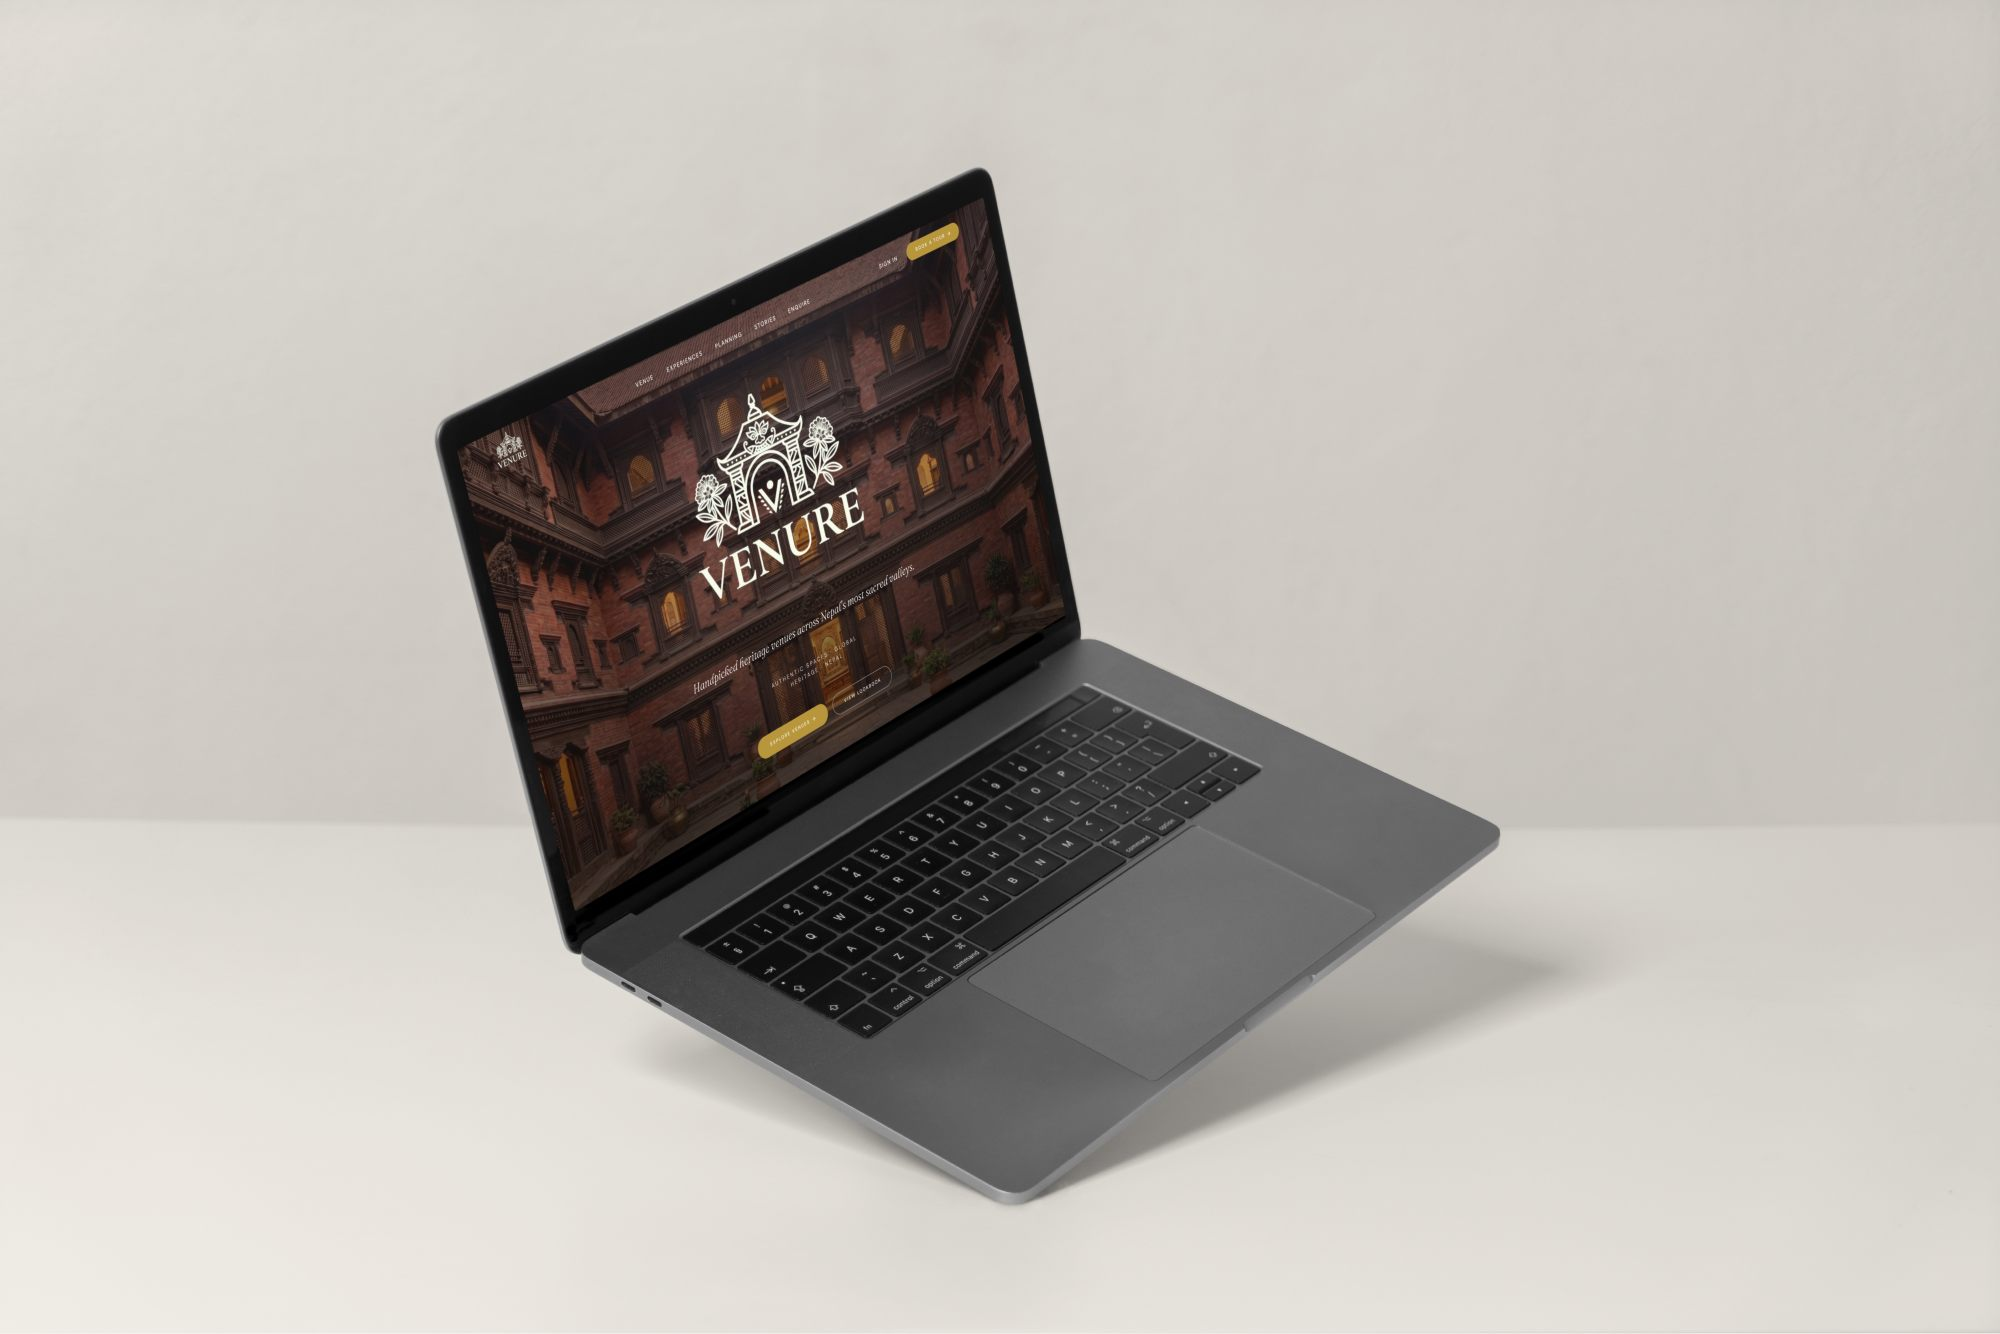
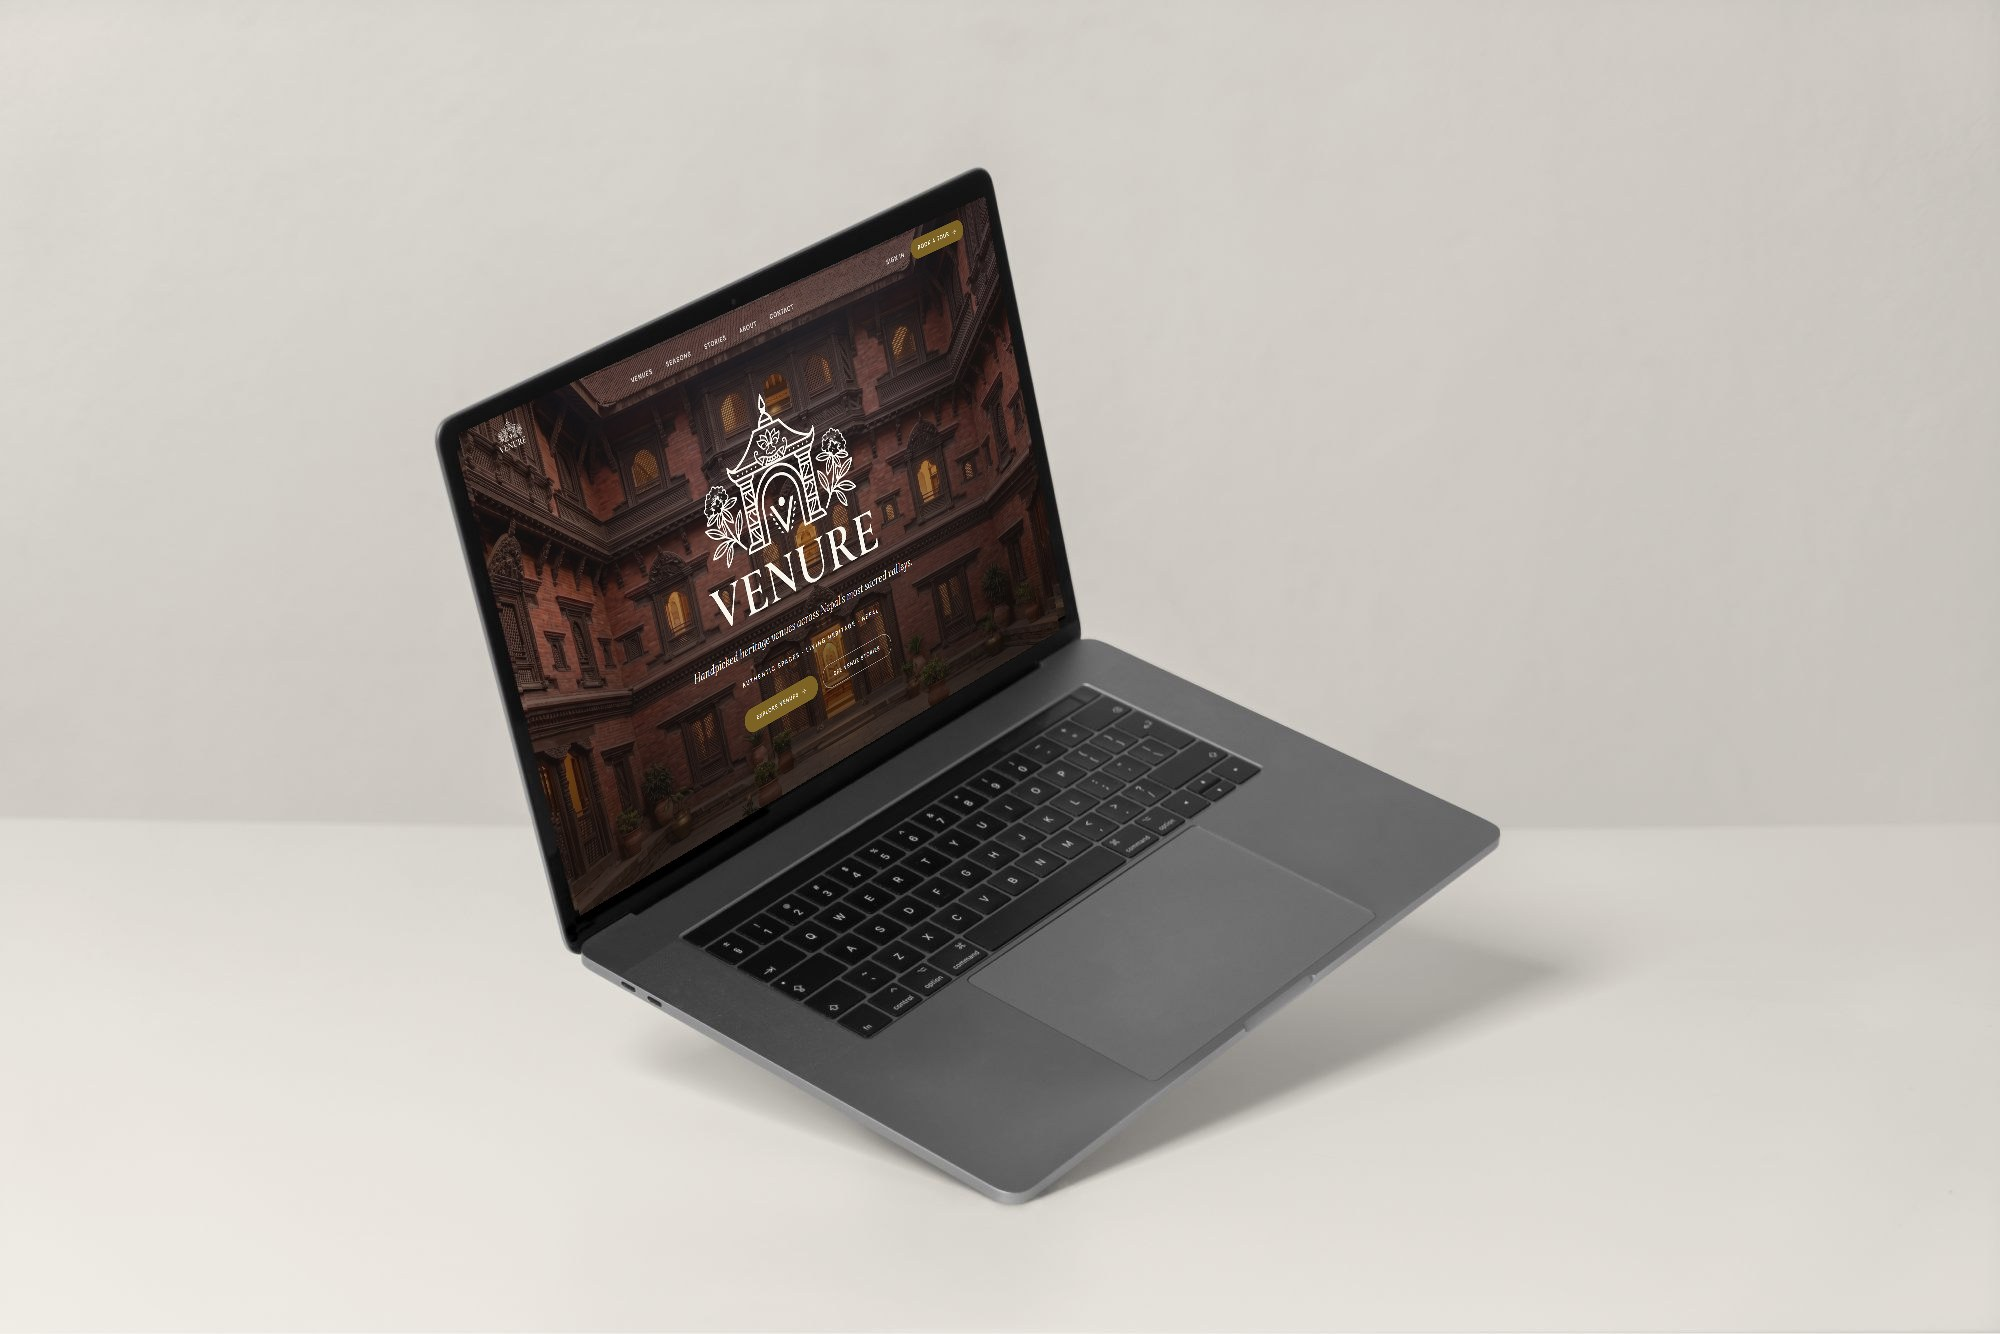
Venure: current screenshots on the same laptop mockup, full-stack description, live site on the real domain

diff --git a/src/data.js b/src/data.js
@@ -25,18 +25,22 @@ export const projects = [
     category: 'Web',
     title: 'VENURE WEB',
     subtitle: 'Venue Booking Platform',
-    description: 'A React frontend for discovering and booking event venues. Includes advanced filters, multi-step booking flows, and an owner dashboard for managing listings and bookings.',
-    tech: ['React', 'Tailwind', 'Zustand'],
-    link: 'https://github.com/AaryanBasnet/venure-frontend',
-    website: 'https://venure-frontend.vercel.app/',
-    image: '/projects/venure.png',
+    description: 'An event-venue booking platform for Nepal. Customers request a date and get a per-plate quotation, then confirm with an eSewa deposit. Owners apply for approval and run requests and bookings; admins review applications. Double booking is blocked by the database itself, and a one-click read-only demo is live.',
+    tech: ['React', 'Node.js', 'MongoDB', 'Socket.IO', 'eSewa'],
+    link: 'https://github.com/AaryanBasnet/VenureFrontend',
+    website: 'https://venure.aaryanbasnet.com.np/',
+    image: '/projects/venure-home.jpg',
     cardImage: '/projects/venure-web-card.jpg',
-    blockSays: "Live. And he is still improving it.",
-    role: 'Frontend development and booking flow design',
+    blockSays: "Try the demo. One click, no sign-up.",
+    role: 'Full-stack development: booking flow, payments, real-time chat, testing and performance',
     year: '2025 – 2026',
-    overview: 'Event customers need to compare venues quickly, and venue owners need a clean way to manage listings and booking requests. This React frontend handles both sides, with venue discovery through advanced filters, a multi-step booking flow for customers, and an owner dashboard for managing listings and bookings.',
+    overview: 'Booking an event venue in Nepal is a conversation, not a cart: the customer asks for a date and a shift, the venue replies with a quotation priced per plate, and only a paid deposit confirms the booking. Venure covers that whole flow for customers, venue owners and admins. Owners join through an approval process with private documents, bookings cannot double up (a database unique index, proven by a 50-way race test), and a Bikram Sambat calendar sits beside the English dates. About 1,700 automated tests run across the stack, and a server-enforced read-only demo (customer, owner and admin) is one click from the login page.',
     images: [
-      { src: '/projects/venure.png', caption: 'Landing page for venue discovery and search' },
+      { src: '/projects/venure-home.jpg', caption: 'Landing page for venue discovery and search' },
+      { src: '/projects/venure-venues.jpg', caption: 'Browse and filter venues by type, kind of space, guests and price' },
+      { src: '/projects/venure-quotation.jpg', caption: 'The venue replies with a per-plate quotation for the guests the customer asked for' },
+      { src: '/projects/venure-owner.jpg', caption: 'Owner dashboard: requests to answer, upcoming events and earnings' },
+      { src: '/projects/venure-admin.jpg', caption: 'Admin reviews a venue application and its private documents' },
     ],
   },
   {
@@ -195,7 +199,7 @@ export const timeline = [
     date: '2023 - Present',
     role: 'Full-Stack Developer',
     org: 'Independent Projects',
-    desc: 'Built comprehensive platforms like CrownHour (luxury e-commerce), Venure (event management system), and SweetNest (3D cake customization), handling everything from UI/UX design to robust backend architecture.',
+    desc: 'Built comprehensive platforms like CrownHour (luxury e-commerce), Venure (event venue booking platform), and SweetNest (3D cake customization), handling everything from UI/UX design to robust backend architecture.',
   },
 ];
 
@@ -206,7 +210,7 @@ export const talkLines = [
   'He once found a coupon that worked eight times. Fixed it.',
   'His thesis: a chatbot that speaks Nepali at the airport.',
   'You can rotate the cake. In 3D.',
-  "Right now he's refactoring Venure.",
+  "Fifty people paid for one date at once. Venure booked it exactly once.",
   'Side quest: a tomato farming game in Godot.',
   'He built this portfolio twice. The other one is a Game Boy.',
   'One Mongoose method made an endpoint nearly 2× faster.',
